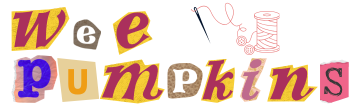
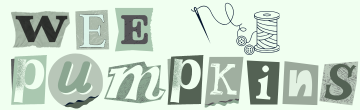
june 7th

diff --git a/src/app/components/checkout/information/Information.tsx b/src/app/components/checkout/information/Information.tsx
@@ -6,15 +6,11 @@ import {useRef, useState} from 'react'
 import { useRouter } from "next/navigation";
 import initCheckoutStore from "../../multi-use/initCheckoutStore";
 import Spinner from '../../multi-use/Spinner'
-import { AddressElement, Elements } from "@stripe/react-stripe-js";
-import { loadStripe } from "@stripe/stripe-js";
-
-const stripe = loadStripe(process.env.NEXT_PUBLIC_STRIPE_PUBLISHABLE_KEY!)
 
 export default function InformationForm(){
-    const {email, country, apartment, city, state, zipcode, first_name, last_name, address, setCheckoutInfo, phone} = useCheckoutStore();
+    const {email, country, company, apartment, city, state, zipcode, first_name, last_name, address, setCheckoutInfo, phone} = useCheckoutStore();
     const [loading, setLoading] = useState(false);
-    console.log(process.env.STRIPE_PUBLISHABLE_KEY!)
+
     const handleInputChanged = (e: React.ChangeEvent<HTMLInputElement>) => {
         setCheckoutInfo({[e.target.name]: e.target.value})
     }
@@ -24,7 +20,7 @@ export default function InformationForm(){
 
     initCheckoutStore();
 
-    const handleSubmit: React.FormEventHandler<HTMLFormElement> = e => {
+    const handleSubmit: React.FormEventHandler<HTMLFormElement> = async (e) => {
         setLoading(true);
         e.preventDefault();
 
@@ -81,7 +77,10 @@ export default function InformationForm(){
                 <form ref={formRef} onSubmit={handleSubmit} className="info-form">
                     <div className="initial-contact">
                         <h2>Contact</h2>
-                        <AnimatedInput defaultValue={email} label="Email" isRequired={true} name="email" />
+                        <div className="email-phone">
+                            <AnimatedInput defaultValue={email} label="Email" isRequired={true} name="email" />
+                            <AnimatedInput defaultValue={phone} label="Phone Number (Optional)" isRequired={false} name="phone" />
+                        </div>
                     </div>
                     <div className="disclaimer">
                         <h2>Delivery Disclaimer</h2>
@@ -89,31 +88,23 @@ export default function InformationForm(){
                             Currently shipping is only available to locations within the United States.
                             If you wish for international shipping please <AnimatedLink href="/contact" linkText="contact me" />
                         </p>
+                        <p>For any other additional delivery information please reach out with the order id.</p>
                     </div>
-                    <Elements stripe={stripe}>
-                        <AddressElement 
-                            options={{
-                                mode: 'shipping',
-                                display: {
-                                    name: "split"
-                                },
-                                defaultValues: {
-                                    firstName: first_name,
-                                    lastName: last_name,
-                                    address: {
-                                        line1: address,
-                                        line2: apartment,
-                                        city: city,
-                                        state: state,
-                                        postal_code: zipcode,
-                                        country: country
-                                    }
-                                }
-                            }}
-                            
-                        />
-                    </Elements>
-                    <AnimatedInput defaultValue={phone} label="Phone (optional)" isRequired={false} name="phone"/>
+                    <div className="shipping-info">
+                        <AnimatedInput defaultValue={country} label="Country" isRequired={true} name="country" />
+                        <div className="first-last">
+                            <AnimatedInput defaultValue={first_name} label="First name" isRequired={true} name="first_name" />
+                            <AnimatedInput defaultValue={last_name} label="Last name" isRequired={true} name="last_name" />
+                        </div>
+                        <AnimatedInput defaultValue={address} label="Address" isRequired={true} name="address" />
+                        <AnimatedInput defaultValue={company} label="Company (Optional)" isRequired={false} name="company" />
+                        <AnimatedInput defaultValue={apartment} name="apartment" isRequired={false} label="Apartment (Optional)" />
+                        <div className="city-state-zip">
+                            <AnimatedInput defaultValue={city} name="city" isRequired={true} label="City" />
+                            <AnimatedInput defaultValue={state} name="state" isRequired={true} label="State/Region" />
+                            <AnimatedInput defaultValue={zipcode} name="zipcode" isRequired={true} label="ZIP/Postal code" />
+                        </div>
+                    </div>
                     <div className="form-bottom-row">
                         <a href="/cart" className="return-cart">
                             <svg fill="#000000" height="10px" width="10px" version="1.1" id="Layer_1" xmlns="http://www.w3.org/2000/svg" 

diff --git a/src/pages/api/get-order.ts b/src/pages/api/get-order.ts
@@ -1,0 +1,52 @@
+import {NextApiRequest, NextApiResponse} from 'next'
+import { createAdminClient } from '../../../utils/supabase/server'
+
+type Order = {
+    payment_intent: string,
+    price: number,
+    name: string,
+    email: string,
+    country: string,
+    address: string,
+    apartment: string,
+    city: string,
+    state: string,
+    zipcode: string,
+    phone: string,
+    ordered_at: string
+}
+
+export default async function handler(req: NextApiRequest, res: NextApiResponse){
+    if(req.method !== 'GET' || !req.query['payment_intent']){
+        return res.status(400).json({error: "Error"})
+    }
+
+    try{
+        const db = await createAdminClient();
+        
+        const payment_intent = Array.isArray(req.query['payment_intent']) ? req.query['payment_intent'][0] : req.query['payment_intent'];
+
+        const isValidPaymentIntent = typeof payment_intent === 'string' && /^pi_[a-zA-Z0-9]{10,}$/.test(payment_intent);
+
+        if(!isValidPaymentIntent){
+            return res.status(400).json({error: "invalid payment intent"})
+        }
+
+        const {data: orderDetails, error} = await db.from('orders').select('*').eq('payment_intent', payment_intent).single();
+        
+        if(!error && orderDetails){
+
+            const {data: itemDetails, error: itemsError} = await db.from('order_items').select('*').eq('order_id', orderDetails['id'])
+
+            
+            const order: Order = {
+                payment_intent: data.
+            }
+            return res.status(200).json(data)
+        }
+        return res.status(400).json({error: 'Error'})
+    }
+    catch(err){
+        return res.status(400).json({error: "Error"})
+    }
+}

diff --git a/src/app/components/checkout/confirm/PageShell.tsx b/src/app/components/checkout/confirm/PageShell.tsx
@@ -1,9 +1,43 @@
 'use client'
-import { useSearchParams } from "next/navigation"
+import { notFound, useSearchParams } from "next/navigation"
+import { useEffect, useState } from "react";
+
+type Order = {
+    payment_intent: string,
+    price: number,
+    name: string,
+    email: string,
+    country: string,
+    address: string,
+    apartment: string,
+    city: string,
+    state: string,
+    zipcode: string,
+    phone: string,
+    ordered_at: string
+}
 
 export default function ConfirmPageShell(){
     const searchParams = useSearchParams();
     const payment_intent = searchParams?.get('payment_intent')
+    const [order, setOrder] = useState<Order>()
+    
+    setTimeout(() => {
+        useEffect(() => {
+            const fetchOrder = async () => {
+                const response = await fetch(`/api/get-order?payment_intent=${payment_intent}`)
+                const data = await response.json()
+
+                if(response.ok){
+                    const order: Order = data.map(() => {
+                        
+                    })
+                }
+            }
+
+            fetchOrder();
+        }, [])
+    }, 100)
 
     return (
         <p>{payment_intent}</p>

diff --git a/src/app/index/page.css b/src/app/index/page.css
@@ -1,6 +1,9 @@
 *{
     font-family: 'Asul', serif;
 }
+main{
+    background-color: #f0fff0;
+}
 .new-arrivals {
 
     display: flex;
@@ -56,6 +59,7 @@
     .next-upcoming-banner{
         align-self: center;
         padding: 6rem 0;
+        
     }
 
     .recent-event-div {
@@ -66,14 +70,19 @@
         align-items: center;
         gap: 3rem;
         padding: 1rem 5rem;
-        background: #f6e6db;
-        box-shadow: 0 2px 4px rgba(0,0,0,1);
-        border: 2px solid black;
+        background-color: #c8e6c8;
+        box-shadow: 0 2px 4px white;
+        border: 1.5px solid white;
         
+        *{
+            background-color: #c8e6c8;
+        }
+
         .recent-event-info {
             display: flex;
             flex-direction: column;
             gap: 0.5rem;
+            background-color: #c8e6c8;
 
             .recent-info-top, .recent-info-middle, .recent-info-bottom {
                 display: flex;

diff --git a/src/pages/api/stripe-webhook.ts b/src/pages/api/stripe-webhook.ts
@@ -21,11 +21,10 @@ export default async function StripeHandler(req: NextApiRequest, res: NextApiRes
     const buf = await buffer(req);
 
     let event: Stripe.Event;
-    let db;
 
     try{
         event = stripe.webhooks.constructEvent(buf, sig!, process.env.STRIPE_WEBHOOK_KEY!)
-        db = await createAdminClient();
+        
     }
     catch(error){
         console.log(error);
@@ -33,6 +32,8 @@ export default async function StripeHandler(req: NextApiRequest, res: NextApiRes
     }
 
     if(event.type === 'payment_intent.succeeded'){
+        const db = await createAdminClient();
+
         const paymentIntent = event.data.object as Stripe.PaymentIntent;
         const {error} = await db.rpc('insert_order', {
             order_payment_intent: paymentIntent.id,

diff --git a/src/app/components/checkout/payment/PaymentSide.tsx b/src/app/components/checkout/payment/PaymentSide.tsx
@@ -115,7 +115,7 @@ export default function Component(){
                             <h2>Payment</h2>
                             <p className="security">All transactions are secure and encrypted.</p>
                         </div>
-                        <form className="payment-element" onSubmit={(e) => testLoading(e)}>
+                        <form className="payment-element" onSubmit={(e) => handleSubmit(e)}>
                             {error && 
                                 <div className="error" ref={errorRef}>
                                     <p className="error-message">{error}</p>

diff --git a/src/app/checkout/information/page.css b/src/app/checkout/information/page.css
@@ -34,6 +34,16 @@
                     display: flex;
                     flex-direction: column;
                     gap: 0.7rem;
+
+                    .email-phone{
+                        display: flex;
+                        flex-direction: row;
+                        gap: 2.5rem;
+
+                        .animated-input-div {
+                            width: 100%;
+                        }
+                    }
                 }
         
                 .disclaimer {

diff --git a/src/app/globals.css b/src/app/globals.css
@@ -544,6 +544,7 @@ main{
     align-items: center;
     box-shadow: 0 0 5px grey;
     z-index: 1000;
+    background-color: rgb(240,255,240);
 
     .search-cart-div{
         display:flex;
